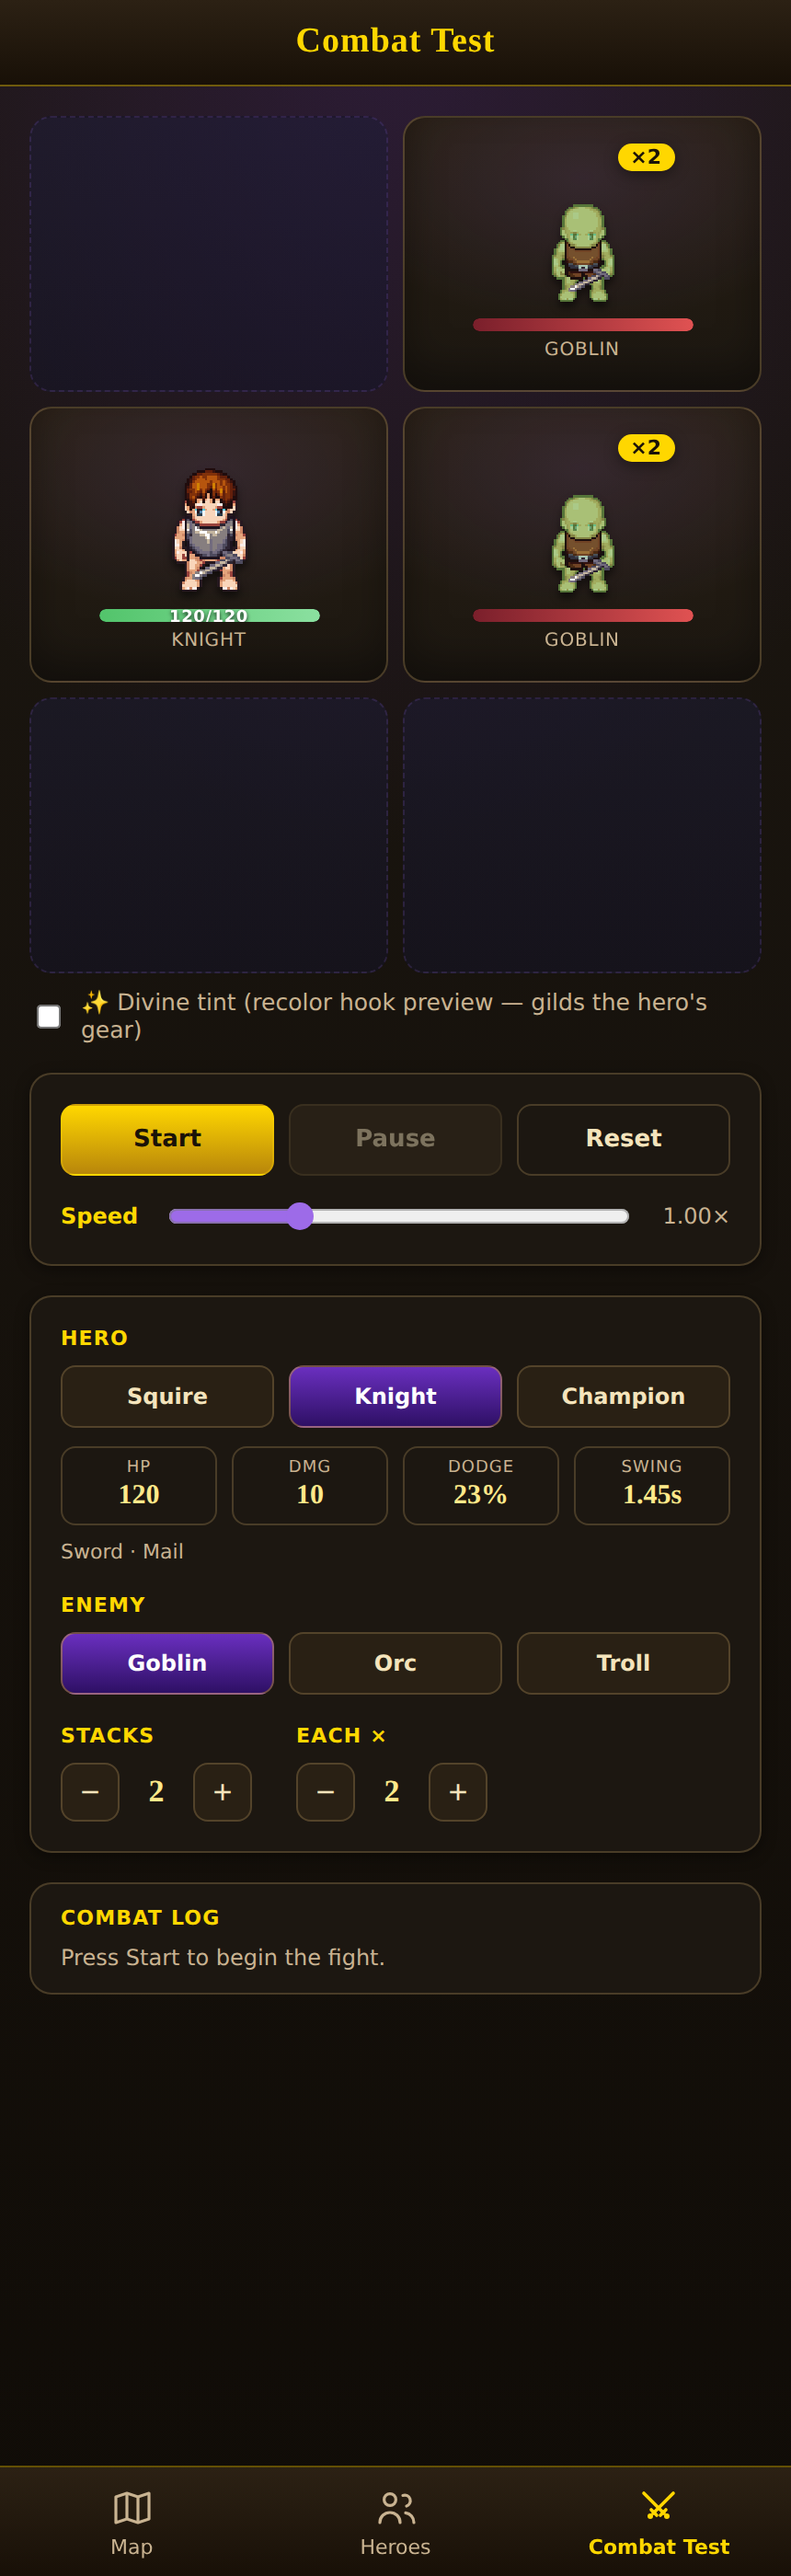
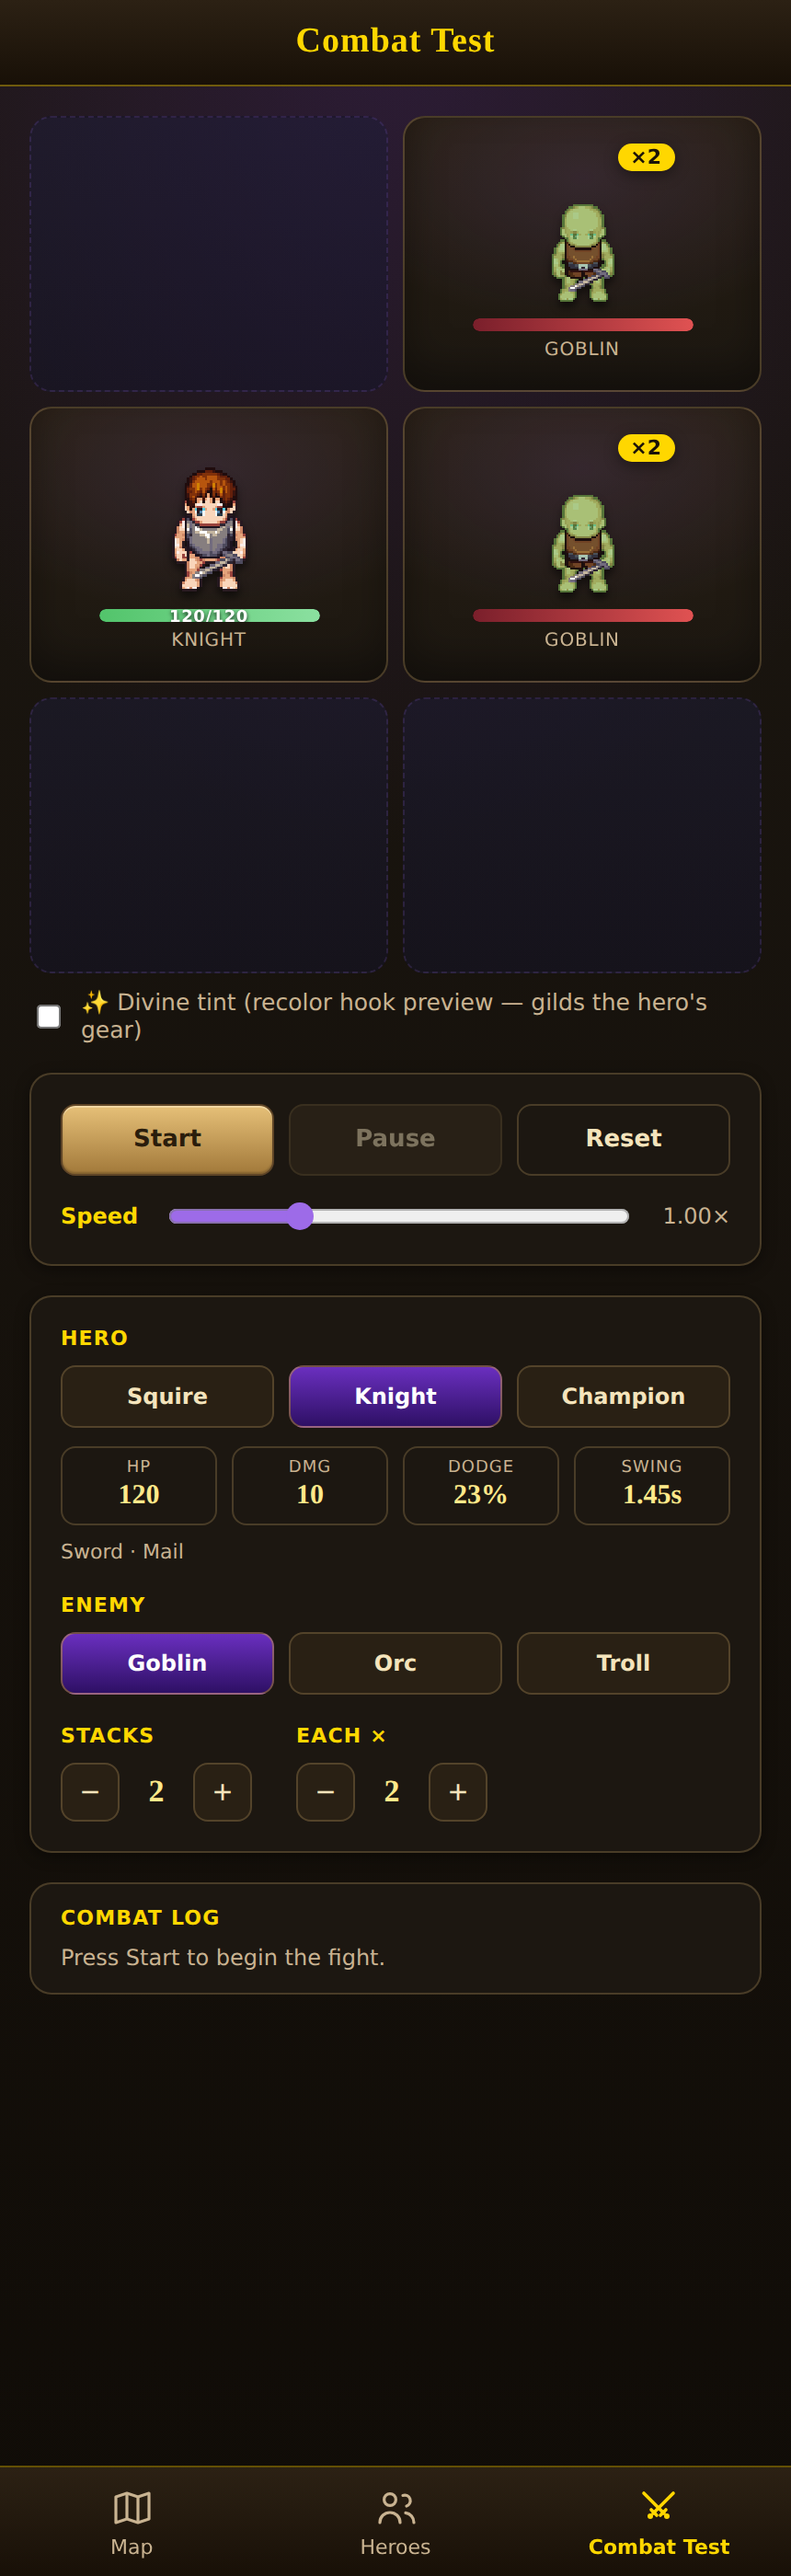
style(ui): soft metallic-gold default Button matching the title art
The neon --c-gold button fill clashed with the soft, desaturated gold of
the Asset Report title. New tokens (--gold-soft-hi/-soft/-lo, --bronze,
--ink-gold) sampled from the title art drive the kit <Button> primary — a
soft gold gradient with a bevel (top highlight + bottom shade) so it reads
as pressed metal. Combat's local .primary now points at the same tokens,
so the one shared default button is reproduced across Start + Combat.
--c-gold stays for bright text/accents; --c-royal untouched.

Claude-Session: https://claude.ai/code/session_015nDwUHaHPSLAVvkERzxPPS

Changed region(s): [[0.0605, 0.4039, 0.3628, 0.4661]]

diff --git a/web/src/ui/kit/Button.module.css b/web/src/ui/kit/Button.module.css
@@ -30,10 +30,15 @@
   box-shadow: 0 0 0 3px var(--c-gold-light);
 }
 
+/* The default button: soft metallic gold matching the title art, with a subtle
+   bevel (top highlight + bottom shade) so it reads as pressed metal, not a flat
+   neon slab. */
 .primary {
-  background: linear-gradient(180deg, var(--c-gold), var(--c-gold-dark));
-  color: #1a1208;
-  border-color: var(--c-gold-dark);
+  background: linear-gradient(180deg, var(--gold-soft-hi), var(--gold-soft-lo));
+  color: var(--ink-gold);
+  border-color: var(--bronze);
+  box-shadow: inset 0 1px 0 rgba(255, 244, 214, 0.45), inset 0 -1px 1px rgba(0, 0, 0, 0.2);
+  text-shadow: 0 1px 0 rgba(255, 246, 222, 0.4);
 }
 .secondary {
   background: rgba(0, 0, 0, 0.25);

diff --git a/web/src/ui/theme/tokens.css b/web/src/ui/theme/tokens.css
@@ -18,6 +18,15 @@
   --c-sky: #87ceeb;
   --c-ember: #ff9d45;
 
+  /* Soft metallic gold — sampled from the "Asset Report" title art (warm and
+     desaturated). This is the DEFAULT BUTTON fill, not the neon --c-gold used
+     for bright text/accents. Reproduced by the kit <Button> everywhere. */
+  --gold-soft-hi: #e6c078;
+  --gold-soft: #c69f57;
+  --gold-soft-lo: #a2793a;
+  --bronze: #5f4527;
+  --ink-gold: #2a1d0c;
+
   /* Surfaces — warm charcoal/brown, aligned to the "Asset Report" key art
      (gold-on-dark, no royal-purple). Sprite + combat-semantic tokens below are
      left unchanged, so hero sprites and HP colours are untouched. */

diff --git a/web/src/ui/combat/Controls.module.css b/web/src/ui/combat/Controls.module.css
@@ -34,9 +34,10 @@
 }
 
 .primary {
-  background: linear-gradient(180deg, var(--c-gold), var(--c-gold-dark));
-  border-color: var(--stroke-gold);
-  color: #1a1208;
+  background: linear-gradient(180deg, var(--gold-soft-hi), var(--gold-soft-lo));
+  border-color: var(--bronze);
+  color: var(--ink-gold);
+  box-shadow: inset 0 1px 0 rgba(255, 244, 214, 0.45), inset 0 -1px 1px rgba(0, 0, 0, 0.2);
 }
 .ghost {
   background: transparent;
